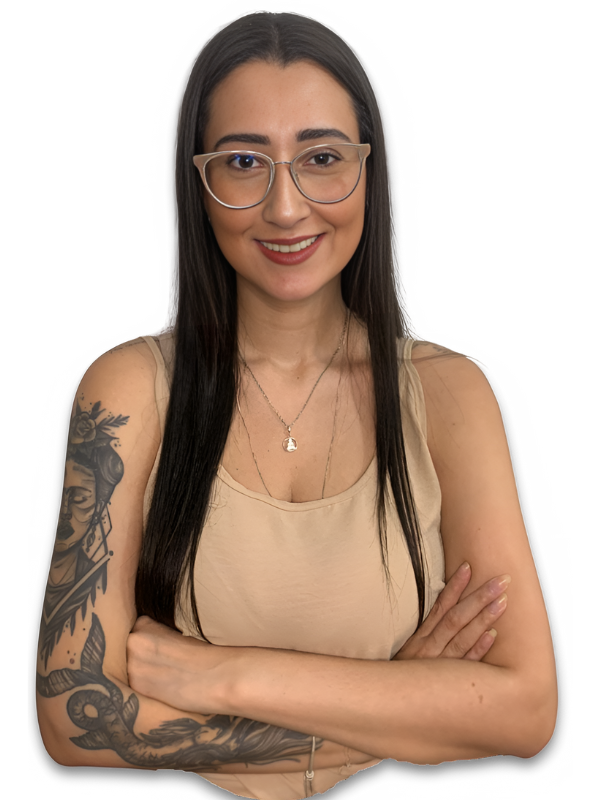
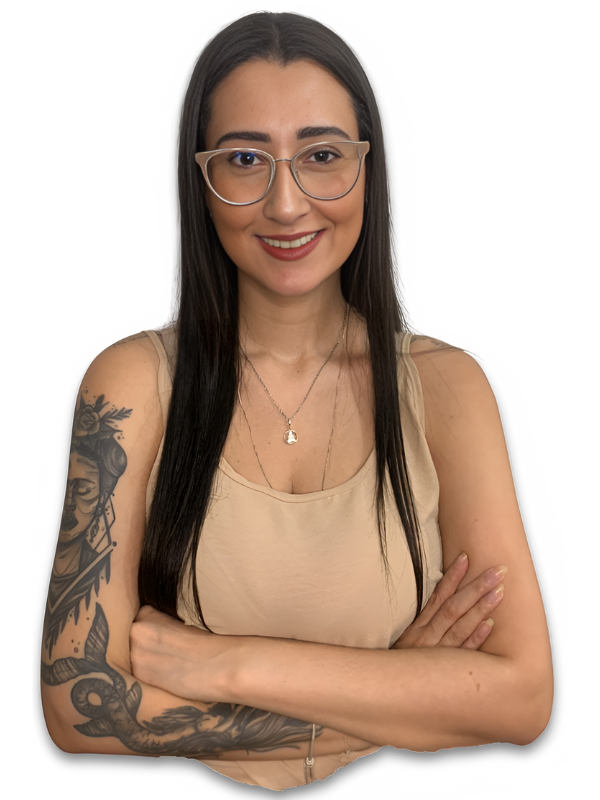
HeroSection Responsivity

diff --git a/src/components/sections/header/Header.tsx b/src/components/sections/header/Header.tsx
@@ -34,55 +34,50 @@ export function Header() {
     }
 
     const ItemMenu = ({ name, link }:Props) => (
-        <li className=" text-2xl text-bold justify-center w-full  bg-burnt_rose/50 hover:bg-misty_rose/50
-        md:col-span-1 md:text-base md:text-bold lg:text-xl lg:text-bold md:h-full ">
-            <a href={`#${link}`} className="h-full w-full grid place-items-center " onClick={closeMenu}>
+        <li className=" text-2xl text-bold justify-center  md:place-items-stretch w-full bg-white md:bg-transparent hover:bg-misty_rose
+        md:col-span-1 md:text-base md:text-bold lg:text-xl lg:text-bold ">
+            <a href={`#${link}`} className="h-full grid place-items-center md:place-content-stretch" onClick={closeMenu}>
                 {name}
             </a>
         </li>
     );
     
-    const logoWidth =()=> {
-        let sizeScreen = typeof window !== 'undefined' ? window.innerWidth : 0;
-        let logoW = 80
+    const [logoWidthState, setLogoWidthState] = useState(0);
 
-        if (sizeScreen > 574 && sizeScreen < 767 ) {
-            logoW = 98
-        } else if(sizeScreen > 767 && sizeScreen < 1023 ) {
-            logoW = 106
-        } else if(sizeScreen > 1023 ) {
-            logoW = 120
-        }
-        return logoW
-    }
-
-    const [logoWidthState, setLogoWidthState] = useState(logoWidth());
-
-    // Função para atualizar a largura do logotipo com base no tamanho da tela
-    const updateLogoWidth = () => {
-        setLogoWidthState(logoWidth());
-    };
-
-    // Efeito para adicionar o ouvinte do evento de redimensionamento da janela
     useEffect(() => {
+        const logoWidth =()=> {
+            let sizeScreen = typeof window !== 'undefined' ? window.innerWidth : 0;
+            let logoW = 80
+            if (sizeScreen > 574 && sizeScreen < 767 ) {
+                logoW = 96
+            } else if(sizeScreen > 767 && sizeScreen < 1023 ) {
+                logoW = 100
+            } else if(sizeScreen > 1023 ) {
+                logoW = 112
+            }
+            return logoW
+        }
+
         const handleResize = () => {
-            updateLogoWidth();
+            const width = logoWidth();
+            setLogoWidthState(width);
         };
-
+    
+        handleResize();
         window.addEventListener('resize', handleResize);
-
-        // Remova o ouvinte do evento de redimensionamento ao desmontar o componente
+    
         return () => {
             window.removeEventListener('resize', handleResize);
         };
-    });
+    }, []);
 
+  
 
     return (
         <header className="relative z-[1000]">
-            <div className="w-full bg-burnt_rose h-20 fixed top-0 left-0 right-0">
-                <div className="grid grid-cols-4   md:grid-cols-12">
-                    <div className='col-span-1 md:col-span-2 md:pl-4 grid place-items-center'>
+            <div className="w-full bg-burnt_rose h-20 fixed top-0 left-0 right-0 ">
+                <div className="grid grid-cols-4  md:grid-cols-12 h-20">
+                <div className='col-span-1 md:col-span-2 md:pl-4 grid place-items-center'>
                         <SvgIcon name="logo2" width={logoWidthState.toString()} height='auto'/>
                     </div>
                     <div className="debora grid content-center col-span-2 md:col-span-4 mx-auto ">
@@ -90,12 +85,12 @@ export function Header() {
                         <div className="italic text-xs md:text-base">Psicóloga Clínica
                         </div>
                     </div>
-                    <div className="menu col-span-1  grid place-items-center my-auto md:col-span-6 md:place-items-start">
+                    <div className="menu col-span-1  grid place-items-center my-auto md:col-span-6 md:place-items-start h-full">
                         { isMobile &&(<button className='md:hidden md:points-event-none' onClick={menuOpen ? closeMenu: openMenu}>
                             <SvgIcon name={iconMenu } width="36" height="auto" />
                         </button>)}
 
-                        <ul className={`hidden md:grid md:w-full md:grid-cols-5 place-content-around pr-4`}>
+                        <ul className={`hidden md:grid md:w-full md:grid-cols-5 place-items-stretch px-4 h-full`}>
                                 <ItemMenu name="Inicio" link="Inicio"/>
                                 <ItemMenu name="Sobre" link="Sobre" />
                                 <ItemMenu name="TCC" link="tratamento" />
@@ -107,8 +102,9 @@ export function Header() {
                 {/* TODO Acertar a animação */}
                 {menuOpen && (
                     <div id='hiddenMenu' 
-                    className={`absolute top-20 left-0 w-full transition-opacity duration-100 transition-pointer-events ${menuOpen ? 'opacity-100 pointer-events-auto' : 'opacity-0 pointer-events-none'}`}>
-                            <ul className="   grid grid-cols-1  grid-rows-5 gap-0 ">
+                    className={`absolute top-20 left-0 w-full
+                    h-[calc(100vh-80px)] transition-opacity duration-100 transition-pointer-events ${menuOpen ? 'opacity-100 pointer-events-auto' : 'opacity-0 pointer-events-none'}`}>
+                            <ul className=" h-full  grid grid-cols-1  grid-rows-5 gap-0 ">
                                 <ItemMenu name="Inicio" link="Inicio" />
                                 <ItemMenu name="Sobre" link="Sobre" />
                                 <ItemMenu name="tratamento" link="tratamento" />

diff --git a/src/components/sections/header/HeroSection.tsx b/src/components/sections/header/HeroSection.tsx
@@ -4,25 +4,29 @@ import { SplashArt, SplashImages } from "../../globalComponents/SplashArt"
 import { DivBackground } from "@/components/globalComponents/DivBackground"
 
 export function HeroSection() {
+
+    
     return (
+
         <DivBackground name="Inicio" >
-            <div className="w-full pt-32">
+            <div className="w-full pt-24">
             <SplashArt way={SplashImages.splash1} />
-                <div className="grid grid-cols-1 gap-4 w-3/4 m-auto px-2 pt-4">
-                    <Image
-                        className="mx-auto col-span-1"
-                        src={profile}
-                        alt="Débora Miller - Psicologa Clínica"
-                        width={600}
-                        height={800}
-                    />
-                    <div className="">
-                    <div className="grid grid-rows-2 gap-3">
-                        <h2 className=" text-2xl text-center font-bold">Especialista em Saúde Mental </h2>
-                        <p className="text-center text-md">Te ajudo a criar uma relação saudável com você</p>
+                <div className="grid grid-cols-1 gap-3 w-3/4 m-auto px-2 ">
+                    <div className="mx-auto col-span-1 max-w-96 lg:max-w-md ">
+                        <Image
+                            className=" "
+                            src={profile}
+                            alt="Débora Miller - Psicologa Clínica"
+                            width={600}
+                        />
                     </div>
-                    <div className="mt-2 w-full text-center ">
-                        <button className="bg-burnt_rose hover:bg-misty_rose py-2 px-4 rounded">
+                    <div className="">
+                    <div className="grid grid-rows-2 gap-1">
+                        <h2 className=" text-2xl md:text-4xl lg:text-5xl text-center font-bold">Especialista em Saúde Mental </h2>
+                        <p className="text-center text-base md:text-xl lg:text-3xl">Te ajudo a criar uma relação saudável com você</p>
+                    </div>
+                    <div className="mt-2 w-full text-center text-base md:text-xl lg:text-3xl">
+                        <button className="bg-burnt_rose hover:bg-misty_rose py-2 px-4 rounded-md">
                             Clique aqui
                         </button>
                     </div>

diff --git a/src/components/globalComponents/DivBackground.tsx b/src/components/globalComponents/DivBackground.tsx
@@ -9,7 +9,7 @@ export type DivBackgroundProps = {
 
 export function DivBackground ({ children, name }: DivBackgroundProps ){
     return (
-        <section className=" min-h-[480px] w-full relative" id={name}>
+        <section className="mx-auto min-h-[480px] w-full max-w-5xl relative" id={name}>
             <div className=" ">
             { children }
             </div>
